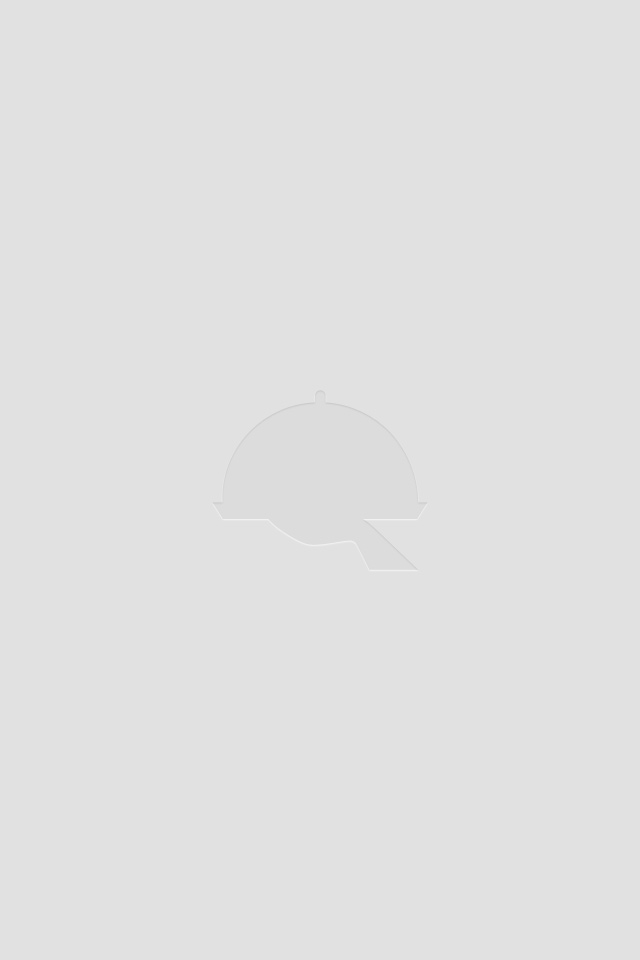
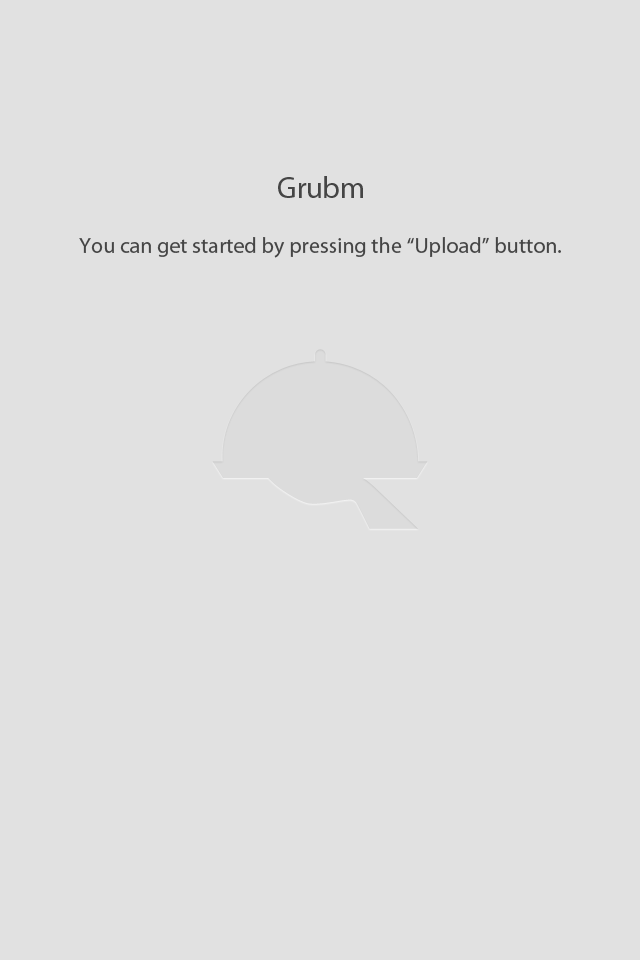
Updated the empty state images in MyImages and Find Food views

diff --git a/www/resources/css/application.css b/www/resources/css/application.css
@@ -5771,26 +5771,35 @@ h3.more {
   font-size: .6em; }
 
 /* line 152, ../scss/application.scss */
-.empty {
+.x-dataview-images-view.x-dataview-my-images.empty {
   background: url(../images/empty@2x.png) no-repeat top left;
   -webkit-background-size: 320px 480px; }
 
 /* line 157, ../scss/application.scss */
+.x-dataview-images-view.empty {
+  background: url(../images/no-results@2x.png) no-repeat top left;
+  -webkit-background-size: 320px 480px; }
+
+/* line 162, ../scss/application.scss */
 .logout {
[1 lines of base64/hex data omitted]
 
-/* line 161, ../scss/application.scss */
+/* line 166, ../scss/application.scss */
 .login-panel {
   background: url(../images/login-panel@2x.png) no-repeat top left;
   -webkit-background-size: 320px 480px; }
 
-/* line 166, ../scss/application.scss */
+/* line 171, ../scss/application.scss */
 .facebook-login {
   background: url(../images/facebook-login-btn@2x.png) no-repeat top left;
   -webkit-background-size: 261px 41px;
   width: 261px;
   height: 41px; }
 
-/* line 173, ../scss/application.scss */
+/* line 178, ../scss/application.scss */
 .x-list-pullrefresh-message {
   font-size: 1.2em; }
+
+/* line 182, ../scss/application.scss */
+.x-dataview-emptytext {
+  font-size: .8em; }

diff --git a/www/resources/scss/application.scss b/www/resources/scss/application.scss
@@ -149,8 +149,13 @@ h3.more {
 	font-size: .6em;
 }
 
-.empty {
+.x-dataview-images-view.x-dataview-my-images.empty {
 	background: url(../images/empty@2x.png) no-repeat top left;
+  -webkit-background-size: 320px 480px;
+}
+
+.x-dataview-images-view.empty {
+	background: url(../images/no-results@2x.png) no-repeat top left;
   -webkit-background-size: 320px 480px;
 }
 
@@ -172,4 +177,8 @@ h3.more {
 
 .x-list-pullrefresh-message {
 	font-size: 1.2em;
+}
+
+.x-dataview-emptytext {
+	font-size: .8em;
 }

diff --git a/www/app/view/MyPhotosTab.js b/www/app/view/MyPhotosTab.js
@@ -3,7 +3,7 @@ Ext.define('Grubm.view.MyPhotosTab', {
   requires: ['Grubm.store.MyImages'],
   xtype: 'myphotostab',
   config: {
-    ui: 'images-view',
+    ui: 'images-view my-images',
     store: 'MyImages',
     plugins: [{ 
       xclass: 'Ext.plugin.PullRefresh',
